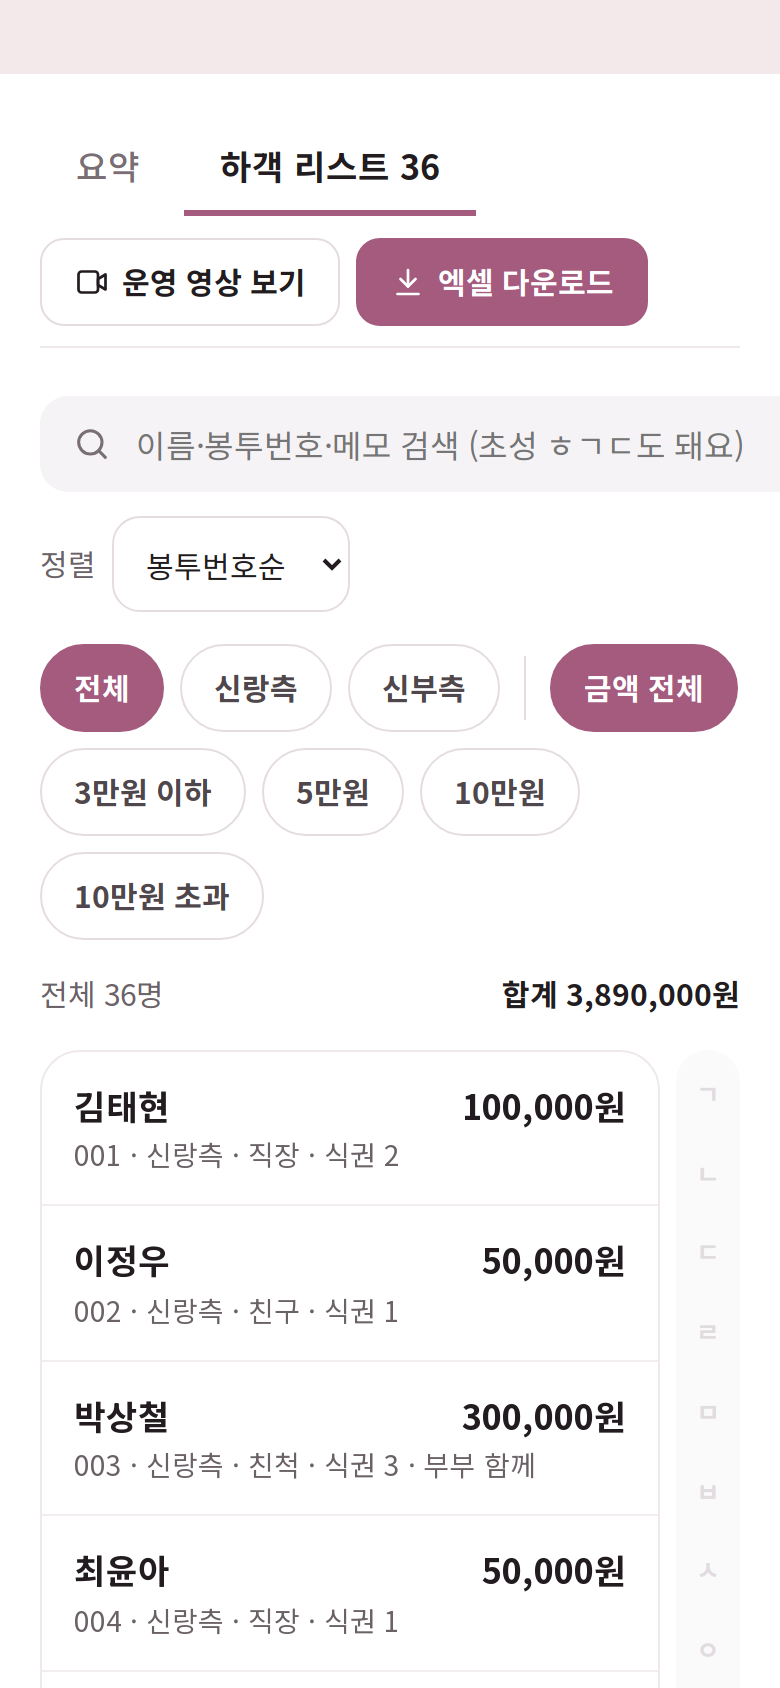
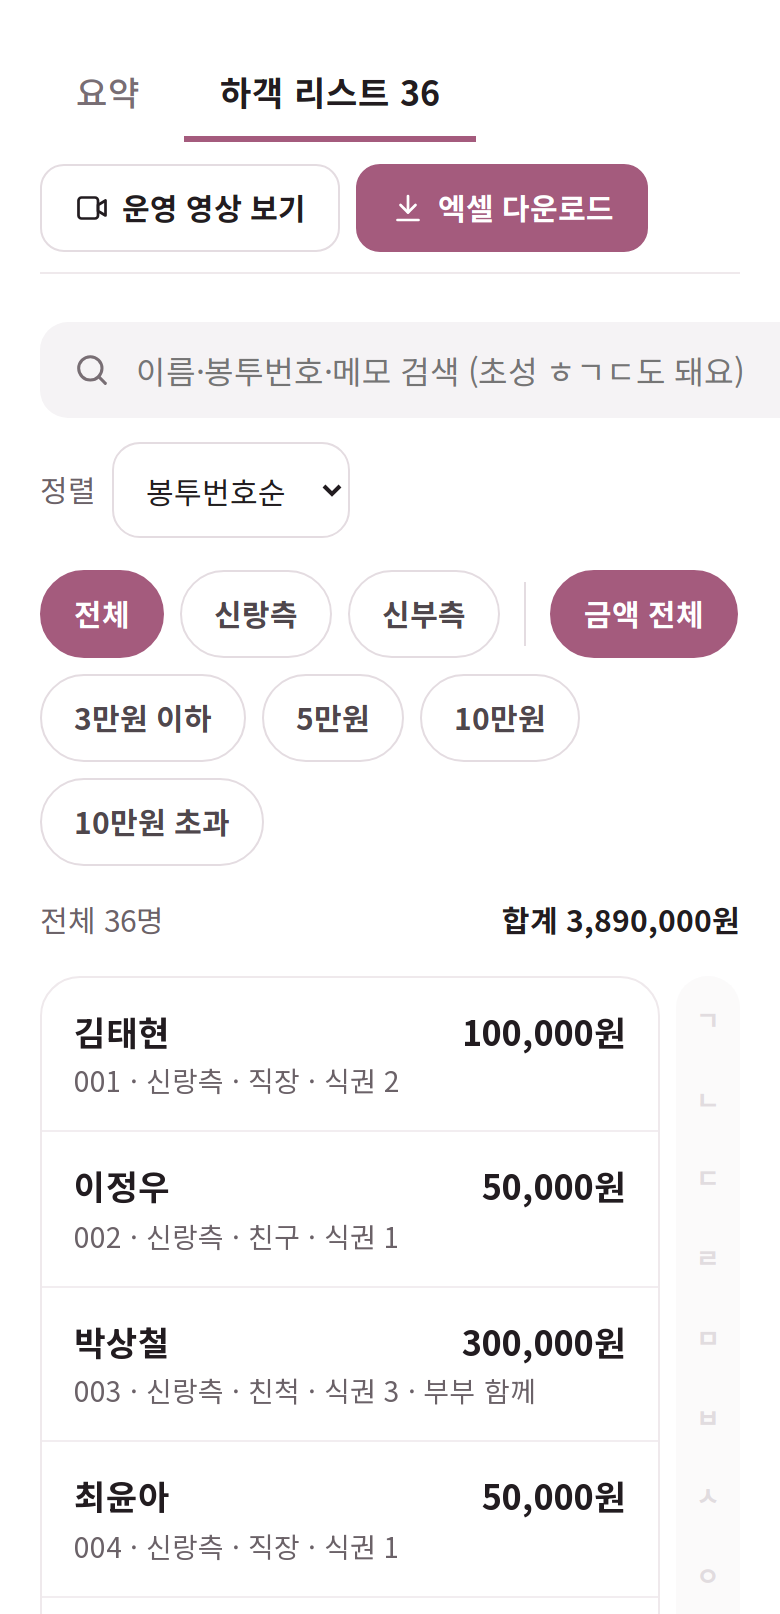
메인: 축의 기록 고객화면 소개 영역 추가 (PC·모바일 캡처, 가상 데이터)
- '이용 방법' 아래에 GUEST RECORD 영역: 요약·검색·엑셀·본인 확인 안내와 PC/휴대폰 캡처
- 캡처는 데모 토큰(/r/demo-premium) 가상 데이터, 하객 리스트 상단 여백 잘라냄
- 임시 캡처 워크플로와 스크립트 삭제

Claude-Session: https://claude.ai/code/session_01Sr6WPWs7d9Lj32dMBPPaae

diff --git a/src/components/home/RecordShowcase.tsx b/src/components/home/RecordShowcase.tsx
@@ -1,0 +1,103 @@
+import Image from "next/image";
+import { Reveal } from "@/components/Reveal";
+import { fontDisplay, fontSerif } from "@/lib/style";
+
+const POINTS = [
+  { title: "총액·봉투·식권을 한눈에", body: "신랑측·신부측, 관계별 합계와 금액대 분포까지 정리해 드려요." },
+  { title: "하객 이름으로 바로 검색", body: "초성 검색과 가나다 색인으로 답례 인사 돌릴 분을 금방 찾아요." },
+  { title: "엑셀로 내려받기", body: "봉투 번호·성명·금액이 담긴 파일을 그대로 보관하실 수 있어요." },
+  { title: "본인 확인 후 열람", body: "예약자 휴대폰 문자 인증을 거쳐야 열리고, 90일 뒤 자동으로 삭제돼요." },
+];
+
+/** 메인 — 예식 후 고객이 직접 보는 축의 기록 화면 소개 (캡처는 데모 가상 데이터) */
+export function RecordShowcase() {
+  return (
+    <section id="record" style={{ padding: "clamp(64px,10vw,110px) clamp(18px,5vw,24px)" }}>
+      <div
+        style={{
+          maxWidth: 1180,
+          margin: "0 auto",
+          display: "grid",
+          gridTemplateColumns: "repeat(auto-fit, minmax(min(100%,340px), 1fr))",
+          gap: "clamp(40px,6vw,72px)",
+          alignItems: "center",
+        }}
+      >
+        <Reveal>
+          <p style={{ fontFamily: fontDisplay, fontSize: 14, letterSpacing: "0.4em", color: "#A9647E", margin: "0 0 18px" }}>GUEST RECORD</p>
+          <h2 style={{ fontFamily: fontSerif, fontSize: "clamp(24px,4.8vw,34px)", fontWeight: 600, margin: "0 0 18px", lineHeight: 1.4, letterSpacing: "-0.02em" }}>
+            축의 기록, 예식이 끝나면
+            <br />휴대폰으로 바로 확인하세요
+          </h2>
+          <p style={{ fontSize: 16, lineHeight: 1.9, color: "#6B5A60", margin: "0 0 30px" }}>
+            인계가 끝나면 고객 전용 기록 화면 주소를 보내 드려요. 앱 설치 없이 휴대폰과 PC 어디서나 열 수 있어요.
+          </p>
+          <div style={{ display: "flex", flexDirection: "column", gap: 2 }}>
+            {POINTS.map((p, i) => (
+              <div
+                key={p.title}
+                style={{
+                  display: "flex",
+                  gap: 16,
+                  padding: "16px 0",
+                  borderTop: "1px solid #E7D5DA",
+                  borderBottom: i === POINTS.length - 1 ? "1px solid #E7D5DA" : undefined,
+                }}
+              >
+                <span style={{ fontFamily: fontDisplay, color: "#A9647E", fontSize: 15, minWidth: 26 }}>{String(i + 1).padStart(2, "0")}</span>
+                <div>
+                  <div style={{ fontSize: 16, fontWeight: 600, color: "#33232A", marginBottom: 4 }}>{p.title}</div>
+                  <div style={{ fontSize: 14, lineHeight: 1.8, color: "#6B5A60" }}>{p.body}</div>
+                </div>
+              </div>
+            ))}
+          </div>
+        </Reveal>
+
+        <Reveal delay={150}>
+          <div style={{ position: "relative", paddingBottom: "clamp(40px,8vw,64px)", paddingRight: "clamp(36px,8vw,70px)" }}>
+            {/* PC 화면 */}
+            <div style={{ background: "#FFFFFF", borderRadius: 10, border: "1px solid #E7D5DA", boxShadow: "0 24px 60px -24px rgba(51,35,42,.35)", overflow: "hidden" }}>
+              <div style={{ display: "flex", gap: 6, padding: "10px 12px", background: "#F6EEF0", borderBottom: "1px solid #E7D5DA" }} aria-hidden="true">
+                {[0, 1, 2].map((d) => (
+                  <span key={d} style={{ width: 9, height: 9, borderRadius: "50%", background: "#E2CBD2" }} />
+                ))}
+              </div>
+              <Image
+                src="/img/record/pc-summary.png"
+                alt="PC에서 본 축의 기록 요약 화면 예시"
+                width={2880}
+                height={1800}
+                sizes="(max-width: 768px) 90vw, 560px"
+                style={{ width: "100%", height: "auto", display: "block" }}
+              />
+            </div>
+            {/* 모바일 화면 */}
+            <div
+              style={{
+                position: "absolute",
+                right: 0,
+                bottom: 0,
+                width: "clamp(110px,30%,180px)",
+                padding: 6,
+                background: "#33232A",
+                borderRadius: 22,
+                boxShadow: "0 24px 50px -18px rgba(51,35,42,.55)",
+              }}
+            >
+              <Image
+                src="/img/record/mobile-list.png"
+                alt="휴대폰에서 본 하객 리스트 화면 예시"
+                width={780}
+                height={1614}
+                sizes="180px"
+                style={{ width: "100%", height: "auto", display: "block", borderRadius: 17 }}
+              />
+            </div>
+          </div>
+          <p style={{ fontSize: 12, color: "#9A8189", margin: "14px 0 0", textAlign: "center" }}>예시 화면 · 이름과 금액은 가상 데이터예요</p>
+        </Reveal>
+      </div>
+    </section>
+  );
+}

diff --git a/src/app/page.tsx b/src/app/page.tsx
@@ -6,6 +6,7 @@ import { OpenModalButton } from "@/components/OpenModalButton";
 import { FaqAccordion } from "@/components/home/FaqAccordion";
 import { PriceTeaserCards } from "@/components/home/PriceTeaserCards";
 import { ReviewMarquee } from "@/components/home/ReviewMarquee";
+import { RecordShowcase } from "@/components/home/RecordShowcase";
 import { fontDisplay, fontSerif } from "@/lib/style";
 
 const SERVICE_STEPS = [
@@ -238,6 +239,8 @@ export default function HomePage() {
           </div>
         </div>
       </section>
+
+      <RecordShowcase />
 
       <section
         id="price"
